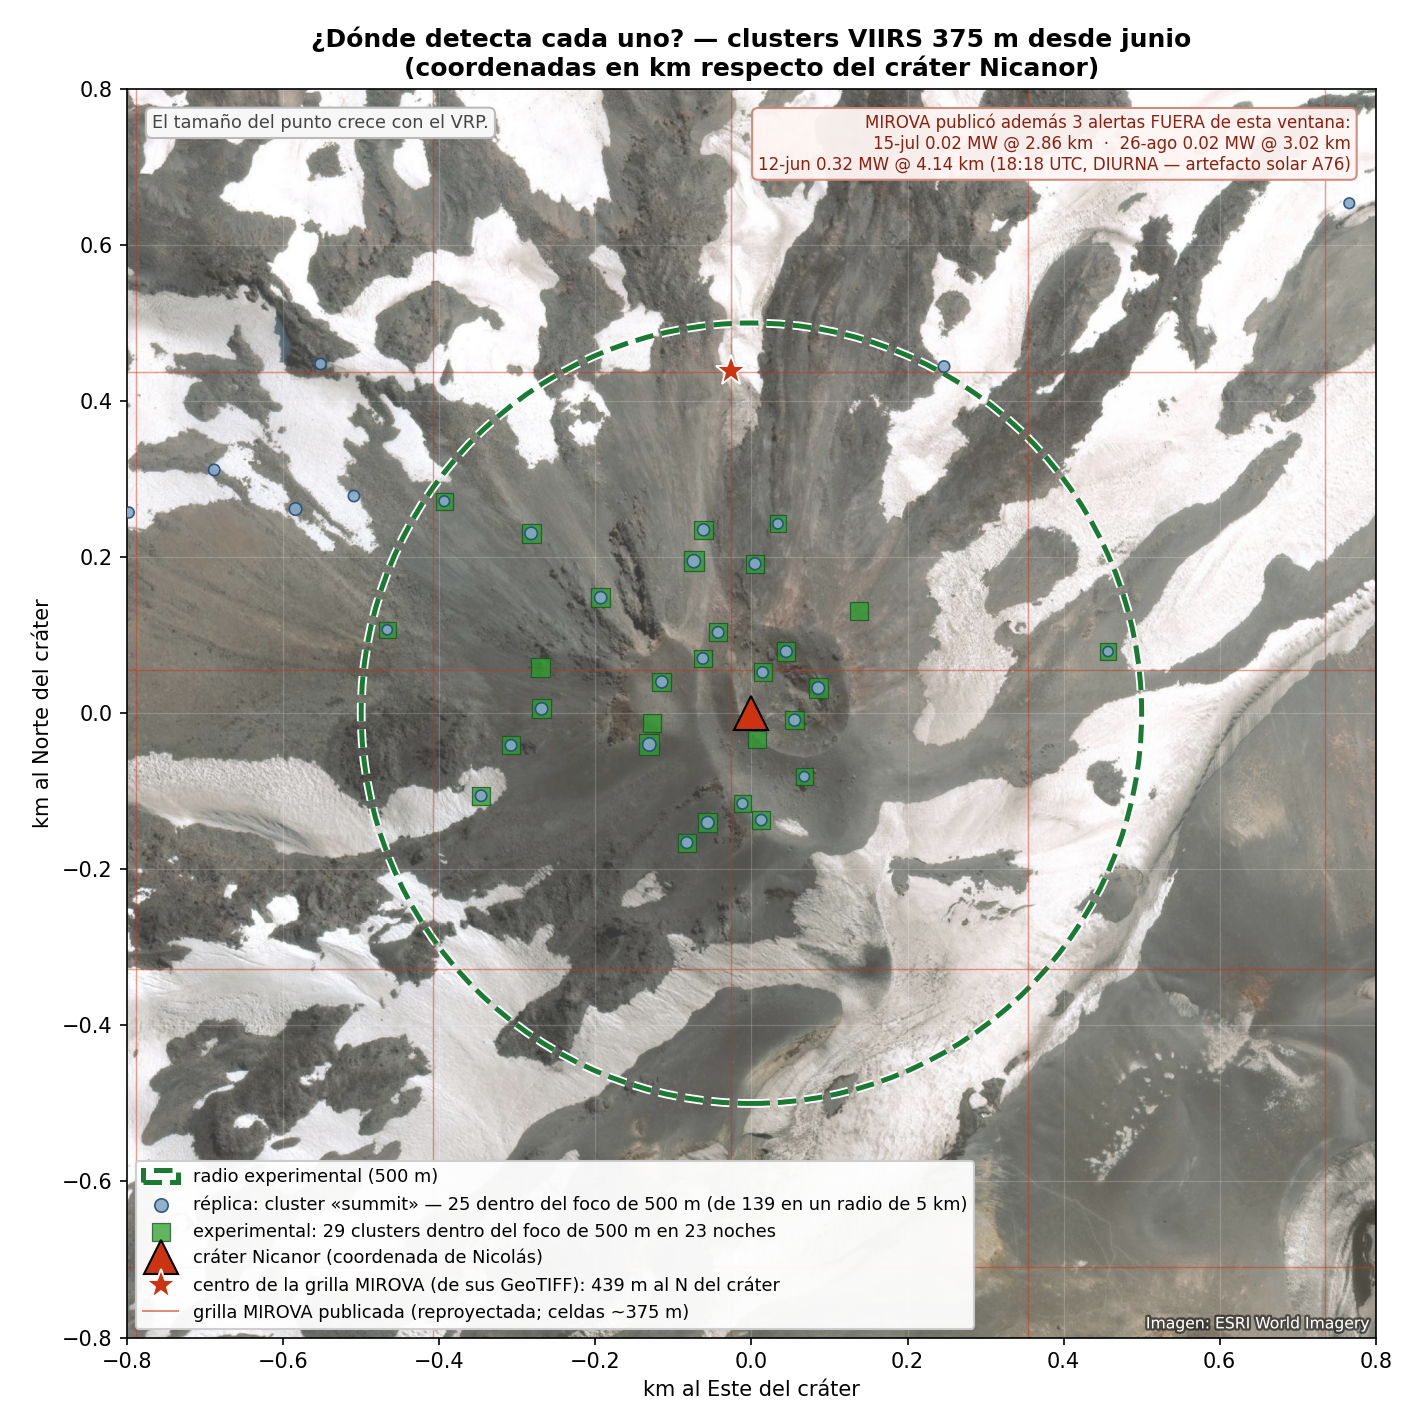
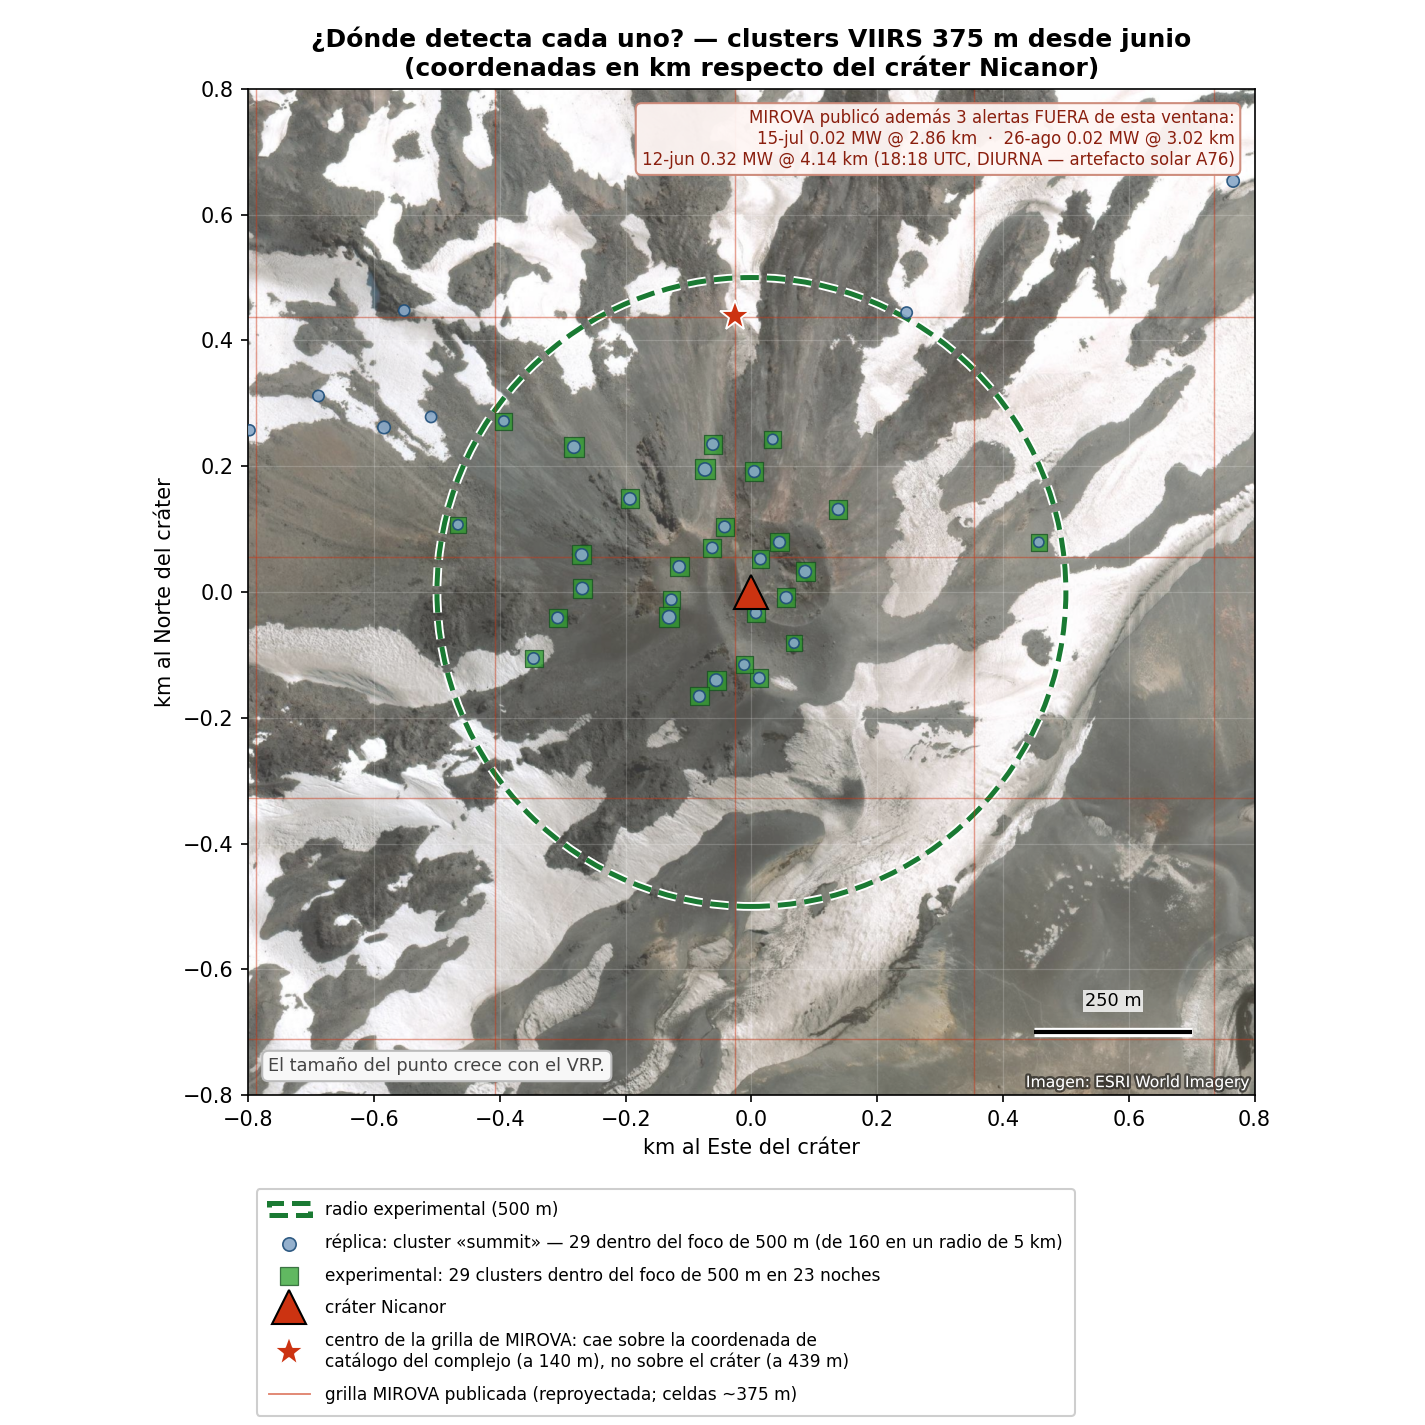
fig(s125): Chillán reprocesado — el umbral bajo no aporta ninguna noche (#533)
* fig(s125): Chillan reprocesado — el umbral bajo NO aporta ninguna noche

Se reproceso el 01-11 jun del operacional con --overwrite (run 33179840122,
posible gracias al input agregado en #532) y se VERIFICO que toco los datos
(05_verificar_reproceso.py: junio 263/327 identicos = 64 records cambiados; los
otros meses 100% identicos porque no estaban en la ventana pedida).

RESULTADO — las 21 pasadas donde el experimental daba >=0.02 MW y el operacional
0 CON EL MISMO PIXEL bajaron a **0** sobre las 380 pasadas comunes.

Y eso cambia una conclusion: la replica pasa de 20 a **23 noches**, las MISMAS
23 del foco experimental. Bajar el umbral de 0.02 a 0.005 MW **no aporta ninguna
noche** en el foco de 500 m al crater. Las 3 noches que parecian ganadas por el
umbral (04/07/11-jun) eran enteramente diferencia de version de codigo. Es
exactamente lo que el audit adversarial predijo ("probablemente 23 vs 23").

Se quita la franja gris y se anota el resultado en la nota al pie.

HONESTIDAD SOBRE EL DIAGNOSTICO: la evidencia que use para senalar la ventana
—"les faltan 3 campos que si tiene el resto"— estaba mal construida. Los campos
discarded_* son OPCIONALES (aparecen solo cuando hubo pixeles descartados) y en
el resto de la serie salen en 1/336, asi que su ausencia en 48 records no
probaba version vieja. Mi conteo agregaba presencia "en al menos un record", que
no es lo mismo. La conclusion operativa igual era correcta —habia diferencia
[…]

diff --git a/experiments/_s124_ndc_focus/plot_simple.py b/experiments/_s124_ndc_focus/plot_simple.py
@@ -42,16 +42,17 @@ NIC = (-36.867210, -71.378241)
 # desparramadas.
 FOCO_KM = 0.5
 START = "2026-06-01"
-# AUDIT S125 — ventana NO COMPARABLE. Los records del 01 al 11 de junio del JSON
-# operacional se procesaron con codigo anterior: les faltan los tres campos
-# `discarded_anomaly_pixels` / `discarded_n_pixels` / `discarded_reason` que si
-# tiene el resto de la serie (48 records sin ellos vs 336 con ellos). Efecto
-# medido: 21 pasadas donde el experimental da >=0.02 MW y la replica da 0 con el
-# MISMO pixel (misma lat/lon/bt_k, `anomaly_pixels: []`) — todas dentro de esos
-# 11 dias. Sin esto la figura atribuia al UMBRAL 3 noches (04/07/11-jun) que en
-# realidad son diferencia de VERSION DE CODIGO. Se sombrea y se excluye de la
-# afirmacion sobre el umbral; se arregla reprocesando esa ventana del operacional.
-NO_COMPARABLE = ("2026-06-01", "2026-06-11")
+# S125 — RESUELTO. Hubo una ventana no comparable: el 01-11 jun del JSON
+# operacional venia de una version anterior del codigo, con 21 pasadas donde el
+# experimental daba >=0.02 MW y la replica 0 CON EL MISMO PIXEL (misma
+# lat/lon/bt_k, `anomaly_pixels: []`). Se reproceso con --overwrite (run
+# 33179840122) y la discrepancia bajo de 21 a 0, verificado sobre las 380
+# pasadas comunes. Ya no hace falta sombrear nada.
+#
+# El `--overwrite` es el punto: sin el, `store.py:554-573` NO reemplaza un record
+# con la misma clave (datetime_utc, sensor) salvo upgrade NRT->standard, y esos
+# 119 records ya eran "standard" — el run habria cerrado en VERDE sin tocar nada.
+NO_COMPARABLE = None
 FOCO_JSON = Path(sys.argv[1]) if len(sys.argv) > 1 else ROOT / "data/experimental_ndc_focus/NevadosDeChillan.json"
 
 
@@ -115,6 +116,7 @@ PASADAS_COMUNES = (_claves("data/mirova_equivalent/NevadosDeChillan.json")
 
 # ── Réplica operacional: VIIRS375, filtro del dashboard ─────────────────────
 replica = {}
+replica_sin_radio = {}   # lo que el dashboard publica sin acotar al crater
 d = json.loads((ROOT / "data/mirova_equivalent/NevadosDeChillan.json").read_text(encoding="utf-8"))
 for r in d["records"]:
     f = (r.get("datetime_utc") or "")[:10]
@@ -134,6 +136,11 @@ for r in d["records"]:
     # sus 135 detecciones, 96 caían a 2-4 km del cráter (S124). Con el radio
     # igualado la única diferencia que queda entre las dos series es el umbral,
     # que es la variable del experimento.
+    # FEEDBACK NICOLAS (S125): "¿la replica mostro esos valores sin necesidad del
+    # radio, o esos datos fueron filtrados?" — SI estan filtrados, y hay que
+    # decirlo. `replica_sin_radio` es lo que el dashboard publica de verdad un dia
+    # normal (solo el gate `distance_class == summit`, sin recorte al crater).
+    replica_sin_radio[f] = max(replica_sin_radio.get(f, 0), v)
     if pc.get("centroid_lat") is None:
         continue
     if hav(NIC[0], NIC[1], pc["centroid_lat"], pc["centroid_lon"]) > FOCO_KM:
@@ -213,47 +220,52 @@ fig, (axA, axC, axB) = plt.subplots(
     3, 1, figsize=(14, 11.4), sharex=True,
     gridspec_kw={"height_ratios": [1, 0.62, 2.6], "hspace": 0.30})
 fig.suptitle("Nevados de Chillán, cráter Nicanor — ¿qué mostró MIROVA y qué detectamos nosotros?\n"
-             "(VIIRS 375 m, desde junio 2026)", fontsize=13.5, fontweight="bold")
+             f"VIIRS 375 m, desde junio 2026 · las tres series cuentan SOLO lo que cae a menos de "
+             f"{FOCO_KM*1000:.0f} m del cráter", fontsize=12.5, fontweight="bold")
 
 C_MIR, C_REP, C_FOC = "#cc3311", "#88a8c8", "#1a7a33"
 
 # Panel A — quién detectó cada noche
 axA.set_title("¿Quién detectó, cada noche?", loc="left", fontsize=11)
+# El piso de MIROVA por sensor (medido sobre el consolidado COMPLETO, todos los
+# volcanes) va en la NOTA AL PIE, no en un recuadro flotante (feedback Nicolas).
 for y, (serie, color, marker, size) in enumerate([
         (foco,    C_FOC, "s", 42),
         (replica, C_REP, "o", 30),
         (mirova,  C_MIR, "*", 150)]):
     axA.scatter(dts(serie), [y] * len(serie), c=color, marker=marker, s=size,
                 edgecolors="k" if marker == "*" else "none", linewidths=0.5, zorder=3)
-# estrellas HUECAS: MIROVA publico esa noche, pero lejos del crater (fuera del foco)
-if mirova_lejanas:
-    axA.scatter(dts(mirova_lejanas), [2] * len(mirova_lejanas), facecolors="none",
-                edgecolors=C_MIR, marker="*", s=150, linewidths=1.2, zorder=3)
+# FEEDBACK NICOLAS (S125): las estrellas huecas (alertas de MIROVA fuera del
+# foco) no aportaban al analisis y agregaban un simbolo mas que descifrar. Se
+# quitan del grafico; siguen listadas en la nota al pie.
 axA.set_yticks([0, 1, 2])
-axA.set_yticklabels([f"Experimental\n(foco {FOCO_KM*1000:.0f} m, umbral bajo)",
-                     "Réplica MIROVA\n(nuestro dashboard)",
-                     "MIROVA publicó\n(alerta térmica)"], fontsize=9)
-axA.set_ylim(-0.6, 2.6)
+axA.set_yticklabels(["Experimental\n(piso 0,005 MW)",
+                     "Réplica\n(nuestro dashboard)",
+                     "MIROVA\n(publicó ese día)"], fontsize=9)
+axA.set_ylim(-0.85, 2.6)
 axA.grid(True, axis="x", alpha=0.25)
 axA.tick_params(axis="y", length=0)
 
 # ── AUDIT S125: las dos zonas que la figura tiene que explicar ──────────────
-_nc0 = datetime.fromisoformat(NO_COMPARABLE[0])
-_nc1 = datetime.fromisoformat(NO_COMPARABLE[1])
-# (a) ventana no comparable: el operacional ahi es de codigo viejo
-for _ax in (axA, axC, axB):
-    _ax.axvspan(_nc0, _nc1, color="#999999", alpha=0.16, zorder=0, lw=0)
-axA.text(_nc0 + (_nc1 - _nc0) / 2, 2.45, "réplica\ndesactualizada", ha="center",
-         va="top", fontsize=6.6, color="#555", linespacing=1.15, zorder=4)
+# (a) ventana no comparable (hoy None: se reproceso, ver cabecera)
+if NO_COMPARABLE is not None:
+    _nc0 = datetime.fromisoformat(NO_COMPARABLE[0])
+    _nc1 = datetime.fromisoformat(NO_COMPARABLE[1])
+    for _ax in (axA, axC, axB):
+        _ax.axvspan(_nc0, _nc1, color="#999999", alpha=0.16, zorder=0, lw=0)
+    axA.text(_nc0 + (_nc1 - _nc0) / 2, 2.45, "réplica\ndesactualizada", ha="center",
+             va="top", fontsize=6.6, color="#555", linespacing=1.15, zorder=4)
 
 # (b) el silencio de julio: el crater se apaga en las TRES series a la vez
 _h0, _h1 = datetime.fromisoformat("2026-07-07"), datetime.fromisoformat("2026-08-16")
 axA.annotate("", xy=(_h0, 0.35), xytext=(_h1, 0.35),
              arrowprops=dict(arrowstyle="<->", color="#8a6d3b", lw=1.1))
-axA.text(_h0 + (_h1 - _h0) / 2, 1.05,
-         "seis semanas sin foco en el cráter, y MIROVA también calló:\n"
-         "su única alerta fue el 15-jul a 2,86 km (estrella hueca).\n"
-         "No se apagó, se corrió: 1 detección a ≤500 m contra 30 a 1–3 km.",
+axA.text(_h0 + (_h1 - _h0) / 2, 1.22,
+         "seis semanas sin señal en el cráter — MIROVA tampoco publicó nada acá.\n"
+         "No faltaron pasadas ni estuvo todo nublado: simplemente no hubo un foco\n"
+         "caliente que detectar. Lo que sí quedó fueron 35 detecciones sueltas a\n"
+         "1–3 km, de un solo píxel y con el índice térmico en su valor más bajo:\n"
+         "indistinguibles del ruido del terreno, no evidencia de calor volcánico.",
          ha="center", va="center", fontsize=6.9, color="#5c4a25", linespacing=1.3,
          zorder=6,
          bbox=dict(boxstyle="round,pad=0.28", fc="#fdf6e3", ec="#c9b458", lw=0.7, alpha=0.96))
@@ -266,36 +278,36 @@ _oy = [despejado[f] for f in _of]
 # justo las que hay que ver. Se dibujan a altura completa en rojo — la franja
 # llena significa "acá no sabemos", no "acá hubo mucha señal".
 _ciego = [v <= 0.01 for v in _oy]
+# FEEDBACK NICOLAS (S125): el verde de estas barras se confundia con los cuadrados
+# verdes del experimental en el panel de arriba — dos cosas distintas del mismo
+# color. Paleta AZUL, que no se usa para ninguna serie de deteccion.
+# Y UN SOLO canal de informacion: la ALTURA. Antes habia altura + color (verde
+# vs ambar segun un corte en 2 K), que obligaba a preguntarse como se combinan.
+# Ahora el color solo distingue "se midio" (azul) de "no se pudo medir" (rojo).
 axC.bar([x for x, c in zip(_ox, _ciego) if c], [6.0] * sum(_ciego),
-        width=0.9, color="#b0413e", alpha=0.5, linewidth=0)
-_col = ["#d9a441" if v < 2.0 else "#3a7d44" for v in _oy]
+        width=0.9, color="#b0413e", alpha=0.55, linewidth=0)
 axC.bar([x for x, c in zip(_ox, _ciego) if not c],
         [v for v, c in zip(_oy, _ciego) if not c],
-        width=0.9, color=[c for c, cc in zip(_col, _ciego) if not cc], linewidth=0)
-axC.axhline(2.0, color="#666", lw=0.8, ls=":")
+        width=0.9, color="#4a7fb5", linewidth=0)
 axC.set_ylim(0, 6)
-axC.set_yticks([0, 2, 4, 6])
-axC.set_ylabel("σ fondo (K)\n↑ más despejado", fontsize=8)
+axC.set_yticks([0, 3, 6])
+axC.set_ylabel("contraste del\nterreno (K)", fontsize=8)
 axC.grid(True, axis="x", alpha=0.25)
-axC.set_title("¿Se pudo ver el terreno esa noche? (dispersión térmica del fondo, σ — proxy, no medición de nubosidad)",
-              loc="left", fontsize=11)
+axC.set_title("¿Se pudo ver el terreno esa noche?   —   barra ALTA = se vio bien · barra BAJA = poco contraste, "
+              "probable nube · ROJA = no se pudo medir",
+              loc="left", fontsize=9.5)
 # AUDIT S125: esta leyenda estaba DENTRO del panel y tapaba las barras rojas de
 # julio-agosto, que son justo las que hay que ver. Baja a la nota al pie.
-_leyenda_C = (
-    "Panel del medio (σ del fondo): verde alto = despejado, se ve la estructura del terreno · barra baja = escena uniforme,\n"
-    f"nube probable · rojo lleno = CIEGO ({sum(_ciego)} noches), ni el fondo pudo medirse: sin información, NO es calma. Es un\n"
-    "PROXY, no una medición de nubosidad: mide cuán estructurado está el terreno, así que una nube estratiforme muy pareja\n"
-    "y un cielo limpio sobre nieve homogénea se parecen. La máscara oficial del sensor (CLDMSK_L2_VIIRS, disponible en NRT)\n"
-    "sería la medición real.")
+# (_leyenda_C se eliminó en S125: su contenido pasó a la nota al pie, reescrita)
 
 # Panel B — cuánta energía
 axB.set_title("¿Cuánta energía? (misma noche, mismo sensor)", loc="left", fontsize=11)
 ax_foco_x = dts(foco)
 axB.plot(ax_foco_x, [foco[x.strftime("%Y-%m-%d")] for x in ax_foco_x], "s", ms=7,
-         color=C_FOC, zorder=3, label=f"Experimental: radio {FOCO_KM*1000:.0f} m al cráter + umbral 0.005 MW")
+         color=C_FOC, zorder=3, label="Experimental (piso 0,005 MW)")
 xs = dts(mirova)
 axB.plot(xs, [mirova[x.strftime("%Y-%m-%d")] for x in xs], "*", ms=17, color=C_MIR,
-         mec="k", mew=0.6, ls="none", zorder=5, label="MIROVA (las veces que publicó alerta)")
+         mec="k", mew=0.6, ls="none", zorder=5, label="MIROVA")
 
 # anotar las noches en que MIROVA y el experimental coinciden
 for i, f in enumerate(sorted(set(mirova) & set(foco))):
@@ -309,7 +321,7 @@ for i, f in enumerate(sorted(set(mirova) & set(foco))):
 
 xs = dts(replica)
 axB.plot(xs, [replica[x.strftime("%Y-%m-%d")] for x in xs], "o", ms=4.5, color=C_REP,
-         mec="#1f4e79", mew=0.7, zorder=4, label="Réplica MIROVA (lo que ve el dashboard hoy)")
+         mec="#1f4e79", mew=0.7, zorder=4, label="Réplica (nuestro dashboard)")
 
 axB.set_ylabel("Potencia radiada VRP (MW)")
 axB.set_ylim(bottom=0)
@@ -327,19 +339,34 @@ for _ax in (axA, axC, axB):
     _ax.tick_params(axis="x", labelbottom=True, labelsize=7.2)
 plt.setp(axB.get_xticklabels(), rotation=0, fontsize=8.5)
 
-nota = ("Cómo leerla: cada estrella roja es una noche en que MIROVA publicó alerta térmica; los cuadrados verdes son el foco del cráter\n"
-        "Nicanor visto por el perfil experimental (área acotada a 500 m + umbral bajo el mínimo de MIROVA); los puntos celestes, la réplica\n"
-        "operacional. Se muestra solo VIIRS 375 m: todas las alertas MIROVA de este período son de ese sensor.")
-if fin_exp < "2026-08-27":
-    nota += ("\nCobertura del experimental hasta el " + fin_exp + ": después solo hay réplica y MIROVA "
-             "(reproceso en curso). Paneles restringidos a pasadas que AMBAS corridas procesaron.")
+# ── Nota al pie — REESCRITA S125 con el feedback de Nicolas ────────────────
+# Antes eran 9 lineas con la metodologia entera. Ahora responde 3 preguntas
+# concretas, en su orden natural, y la metodologia queda en los comentarios.
+_n_sin_radio = len(replica_sin_radio)
+nota = (
+    f"Las tres series miran el cráter, a menos de {FOCO_KM*1000:.0f} m. Réplica y experimental detectan las mismas {len(replica)} noches: "
+    f"bajar el piso de 0,02 a 0,005 MW no agrega nada acá.\n"
+    f"Sin acotar al cráter, la réplica publicaría {_n_sin_radio} noches; las otras {_n_sin_radio - len(replica)} caen a 1–3 km, sobre el edificio, no en el cráter.\n\n"
+
+    "Lo más bajo que MIROVA llegó a publicar, en todos los volcanes:  VIIRS 375 m  0,010 MW  ·  VIIRS 750 m  0,090  ·  MODIS  0,140. "
+    "Nuestro piso es 0,02 y sólo 1 de sus 1000 alertas\n"
+    "VIIRS 375 m quedó por debajo, así que casi no perdemos nada por ahí. Igual acá se ven valores menores: el piso se aplica al VRP de toda la escena, "
+    "no al del cráter, que es el que se grafica.\n\n"
+
+    "Por qué MIROVA no alertó en noches donde nosotros medimos más que su mínimo: tuvo el dato en todas (nuestro scraper las archiva como RUTINA, "
+    "etiqueta nuestra, no de ellos) pero su\n"
+    "algoritmo no las marcó. Su criterio no es cuánta energía hay sino cuánto DESTACA el punto caliente sobre el terreno de esa noche, así que la misma "
+    "potencia puede pasar o no según el fondo.\n\n"
+
+    "Barras: la altura es cuánto contraste térmico tenía el terreno. Alta = se vio bien · baja = terreno parejo, probablemente nublado · "
+    f"roja = no se pudo medir el fondo ({sum(_ciego)} noches, ninguna\n"
+    "con detección). Las rojas ocurren cuando el filtro de nubes descarta casi todo el anillo de referencia: en esas noches descartó ~10.000 píxeles "
+    "contra ~1.100 en una noche normal.\n"
+    "El filtro corta por temperatura (260 K), y a esta altitud en invierno la nieve está igual de fría que una nube baja, así que también se lleva terreno."
+)
 if mirova_excluidas:
-    _exc = "  ·  ".join(x[0] + " " + format(x[1], ".2f") + " MW (" + x[3] + ")" for x in sorted(mirova_excluidas))
-    nota += ("\nAlertas MIROVA fuera del foco de 500 m (estrellas HUECAS en el panel de arriba; no entran a la comparación de energía): "
-             + _exc + ".")
-nota += ("\nFranja gris 01–11 jun: la serie operacional ahí es de una versión anterior del código (le faltan 3 campos que sí\n"
-         "tiene el resto), así que en esos días la diferencia entre réplica y experimental NO es atribuible al umbral.\n"
-         + _leyenda_C)
+    _exc = "  ·  ".join(x[0] + " " + format(x[1], ".2f") + " MW " + x[3] for x in sorted(mirova_excluidas))
+    nota += "\nAlertas de MIROVA que caen fuera del cráter y por eso no se comparan:  " + _exc + "."
 fig.text(0.055, 0.008, nota, fontsize=7.4, color="#555", va="bottom", linespacing=1.5)
 # AUDIT S125: tight_layout avisa 'Axes not compatible' por los axvspan/annotate
 # y deja el eje del panel B encima de la nota. Margenes explicitos en su lugar.

diff --git a/experiments/_s124_ndc_focus/plot_mapa.py b/experiments/_s124_ndc_focus/plot_mapa.py
@@ -108,7 +108,7 @@ if foc:
                edgecolors="#14501f", lw=0.6, zorder=4,
                label=f"experimental: {len(foc)} clusters dentro del foco de {FOCO_KM*1000:.0f} m "
                  f"en {len(_foc_noches)} noches")
-ax.plot(0, 0, "^", ms=16, c="#cc3311", mec="k", zorder=5, label="cráter Nicanor (coordenada de Nicolás)")
+ax.plot(0, 0, "^", ms=16, c="#cc3311", mec="k", zorder=5, label="cráter Nicanor")
 
 # ── MIROVA: lo que su Distancia_km REALMENTE dice ───────────────────────────
 # AUDITORIA S124 (Nicolás preguntó "¿respecto a qué punto mide?" y la respuesta
@@ -147,7 +147,8 @@ for k in range(134 + 1):
 _cgx = (-71.378535 - NIC[1]) * _kx
 _cgy = (-36.863270 - NIC[0]) * 111.32
 ax.plot(_cgx, _cgy, "*", ms=15, c="#cc3311", mec="white", mew=0.9, zorder=6,
-        label="centro de la grilla MIROVA (de sus GeoTIFF): 439 m al N del cráter")
+        label=("centro de la grilla de MIROVA: cae sobre la coordenada de\n"
+               "catálogo del complejo (a 140 m), no sobre el cráter (a 439 m)"))
 ax.plot([], [], color="#cc3311", lw=0.9, alpha=0.6,
         label="grilla MIROVA publicada (reproyectada; celdas ~375 m)")
 
@@ -156,7 +157,21 @@ ax.set_ylabel("km al Norte del cráter")
 ax.set_xlim(-LIM, LIM); ax.set_ylim(-LIM, LIM)
 ax.set_aspect("equal")
 ax.grid(True, alpha=0.18, color="white", lw=0.6)
-ax.legend(loc="lower left", fontsize=8.5, framealpha=0.95)
+
+# Barra de escala (feedback Nicolas): el eje ya esta en km, pero una barra
+# permite estimar distancias sin leer los ticks.
+_sb = 0.25   # km
+_x0, _y0 = LIM - _sb - 0.10, -LIM + 0.10
+ax.plot([_x0, _x0 + _sb], [_y0, _y0], "-", color="white", lw=4.5, solid_capstyle="butt", zorder=9)
+ax.plot([_x0, _x0 + _sb], [_y0, _y0], "-", color="black", lw=2.0, solid_capstyle="butt", zorder=10)
+ax.text(_x0 + _sb / 2, _y0 + 0.035, f"{_sb*1000:.0f} m", ha="center", va="bottom",
+        fontsize=8.5, color="black", zorder=10,
+        bbox=dict(boxstyle="square,pad=0.12", fc="white", ec="none", alpha=0.8))
+# FEEDBACK NICOLAS (S125): los iconos se superponian. Mas interlineado,
+# handles mas separados y la leyenda ANCLADA DEBAJO del eje, no encima.
+ax.legend(loc="upper left", bbox_to_anchor=(0.0, -0.085), fontsize=8.2,
+          framealpha=0.95, labelspacing=0.85, handlelength=2.4,
+          handletextpad=0.9, borderpad=0.7, ncol=1)
 ax.text(0.98, 0.98,
         "MIROVA publicó además 3 alertas FUERA de esta ventana:\n"
         "15-jul 0.02 MW @ 2.86 km  ·  26-ago 0.02 MW @ 3.02 km\n"
@@ -164,8 +179,8 @@ ax.text(0.98, 0.98,
         transform=ax.transAxes, ha="right", va="top", fontsize=8, color="#8a1f0e",
         bbox=dict(boxstyle="round,pad=0.35", fc="#fff6f4", ec="#cc8877", alpha=0.95),
         zorder=8)
-ax.text(0.02, 0.98, "El tamaño del punto crece con el VRP.",
-        transform=ax.transAxes, va="top", fontsize=8.5, color="#444",
+ax.text(0.02, 0.02, "El tamaño del punto crece con el VRP.",
+        transform=ax.transAxes, va="bottom", fontsize=8.5, color="#444",
         bbox=dict(boxstyle="round,pad=0.35", fc="#f7f7f7", ec="#bbb"))
 ax.text(0.995, 0.005, ATRIBUCION, transform=ax.transAxes, ha="right", va="bottom",
         fontsize=7.5, color="white", zorder=6,
